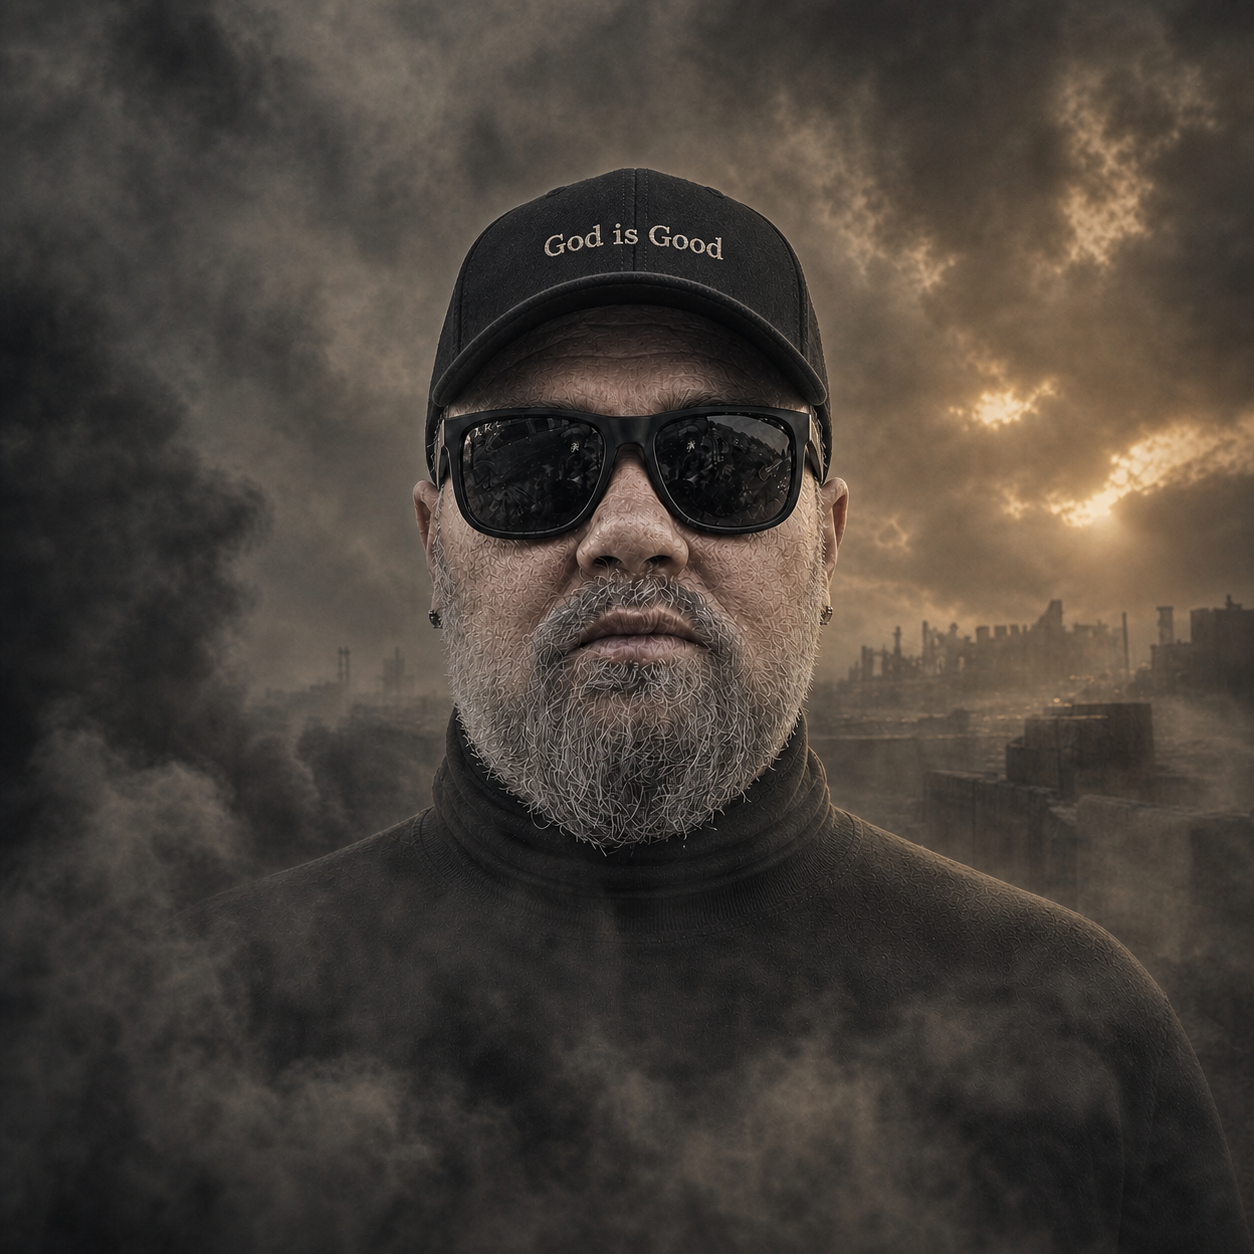
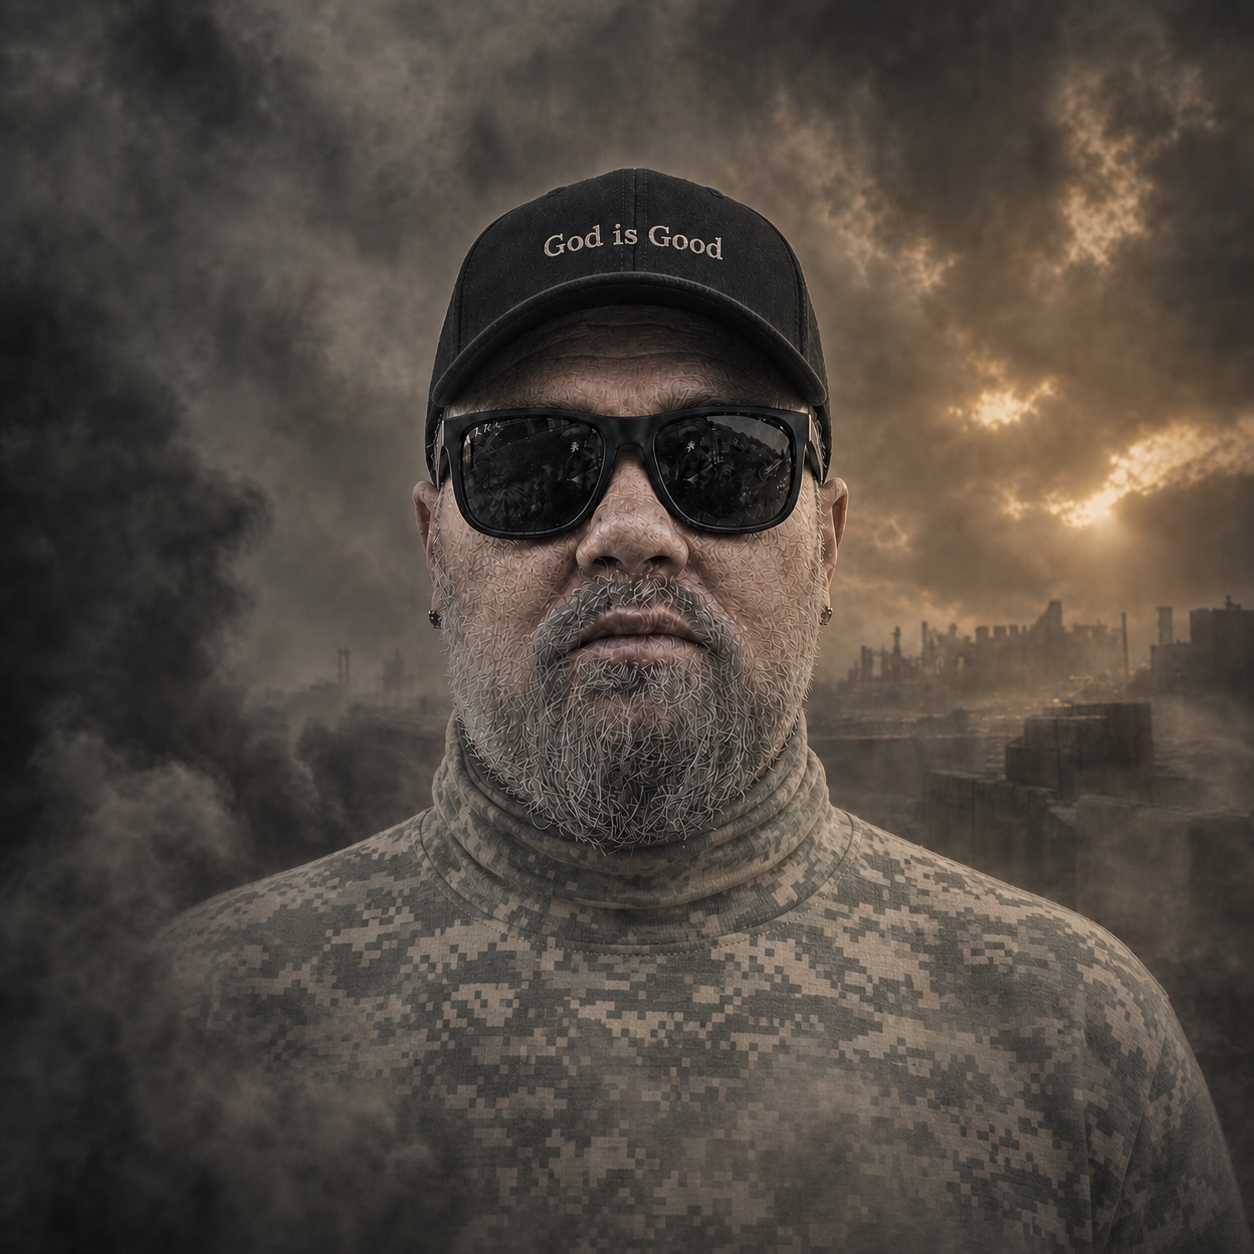
Polish portrait and responsive lyric experience

Changed region(s): [[0.1244, 0.311, 0.9952, 1.0], [0.3421, 0.3421, 0.3732, 0.3732]]

diff --git a/styles.css b/styles.css
@@ -50,8 +50,8 @@ main { background: radial-gradient(circle at 80% 10%, rgba(105,111,55,.12), tran
 .section-intro > p { margin: 0; color: var(--bone-dim); max-width: 560px; }
 .interactive-album { padding: 120px 0; border-top: 1px solid var(--line); background: linear-gradient(180deg, #090b08, #070806); }
 .album-console { width: min(1500px, calc(100% - 48px)); height: min(780px, 82svh); min-height: 660px; margin: auto; display: grid; grid-template-columns: 275px minmax(430px, 1.15fr) minmax(360px, .85fr); border: 1px solid var(--line); background: #070806; box-shadow: 0 40px 100px rgba(0,0,0,.42); overflow: hidden; }
-.console-tracks { min-width: 0; overflow: auto; border-right: 1px solid var(--line); scrollbar-width: thin; background: #0a0c09; }
-.console-stage { min-width: 0; display: flex; flex-direction: column; border-right: 1px solid var(--line); }
+.console-tracks { min-width: 0; min-height: 0; overflow: auto; border-right: 1px solid var(--line); scrollbar-width: thin; background: #0a0c09; }
+.console-stage { min-width: 0; min-height: 0; display: flex; flex-direction: column; border-right: 1px solid var(--line); }
 .video-shell { position: relative; aspect-ratio: 16/9; background: #000; border-bottom: 1px solid var(--line); }
 .video-shell iframe { width: 100%; height: 100%; border: 0; display: block; }
 .now-playing { display: flex; align-items: center; justify-content: space-between; gap: 24px; padding: 32px 36px 20px; }
@@ -62,12 +62,13 @@ main { background: radial-gradient(circle at 80% 10%, rgba(105,111,55,.12), tran
 .transport button:hover { background: var(--olive); border-color: var(--olive); color: var(--ink); }
 .transport span { color: #7e806f; font: 700 .68rem var(--display); letter-spacing: .12em; }
 .active-act-note { margin: 0; padding: 0 36px 30px; color: #878a7c; font-size: .82rem; line-height: 1.55; }
-.console-lyrics { min-width: 0; display: flex; flex-direction: column; background: linear-gradient(180deg, rgba(139,145,69,.07), transparent 35%); }
+.console-lyrics { min-width: 0; min-height: 0; overflow: hidden; display: flex; flex-direction: column; background: linear-gradient(180deg, rgba(139,145,69,.07), transparent 35%); }
 .lyrics-toolbar { min-height: 90px; display: flex; justify-content: space-between; gap: 20px; align-items: center; padding: 22px 26px; border-bottom: 1px solid var(--line); }
 .lyrics-toolbar span { display: block; color: var(--olive-bright); font: 700 .62rem var(--display); text-transform: uppercase; letter-spacing: .17em; }
 .lyrics-toolbar strong { display: block; max-width: 240px; overflow: hidden; white-space: nowrap; text-overflow: ellipsis; font: 700 1.1rem var(--display); text-transform: uppercase; }
 .lyrics-toolbar a { flex: 0 0 auto; color: #898b80; text-decoration: none; font: 700 .6rem var(--display); text-transform: uppercase; letter-spacing: .12em; }
 .lyrics-scroll { flex: 1; min-height: 0; overflow: auto; padding: 38px 34px 80px; scrollbar-color: var(--olive) transparent; }
+.lyrics-scroll:focus-visible { outline: 2px solid var(--olive-bright); outline-offset: -3px; }
 .lyrics-scroll .lyric-section { margin-bottom: 30px; }
 .lyrics-scroll .lyric-section p { font-size: .92rem; line-height: 1.85; }
 
@@ -209,7 +210,8 @@ footer { display: flex; justify-content: space-between; gap: 40px; padding: 60px
   .about-hero-copy { text-align: center; padding-top: 40px; }
   .about-lead { margin-left: auto; margin-right: auto; }
   .identity-line { justify-content: center; }
-  .name-origin { grid-template-columns: 1fr; }
+  .name-origin { grid-template-columns: minmax(0, 1fr); }
+  .origin-title, .origin-copy { min-width: 0; }
   .origin-title { position: static; }
   .about-confession { grid-template-columns: 1fr; gap: 20px; }
   .confession-number { line-height: .8; }
@@ -232,6 +234,7 @@ footer { display: flex; justify-content: space-between; gap: 40px; padding: 60px
   .lyrics-toolbar { align-items: flex-start; }
   .lyrics-toolbar a { display: none; }
   .lyrics-scroll { padding: 30px 24px 60px; }
+  .origin-title h2 span { display: block; font-size: clamp(2.1rem, 10vw, 3rem); letter-spacing: -.03em; }
   .story-art { min-height: 500px; }
   .pillars { grid-template-columns: 1fr; }
   .pillars article, .pillars article:nth-child(2) { min-height: 300px; border-right: 0; border-bottom: 1px solid var(--line); }

diff --git a/index.html b/index.html
@@ -99,7 +99,7 @@
             </div>
             <a id="youtube-link" href="#" target="_blank" rel="noreferrer">Open on YouTube ↗</a>
           </div>
-          <div class="lyrics-scroll" id="active-lyrics">
+          <div class="lyrics-scroll" id="active-lyrics" role="region" aria-label="Scrollable song lyrics" tabindex="0">
             <div class="loading">Opening the lyrics…</div>
           </div>
         </section>
